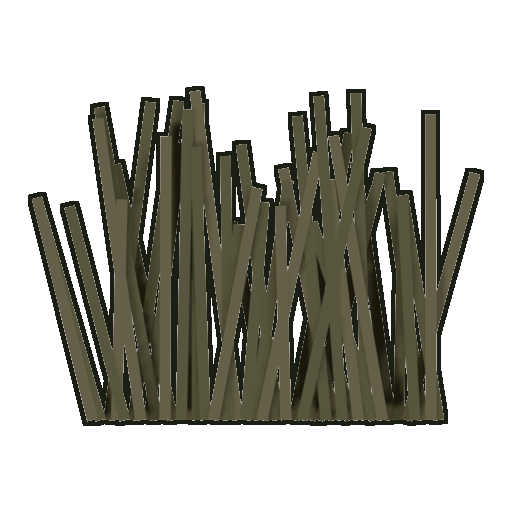
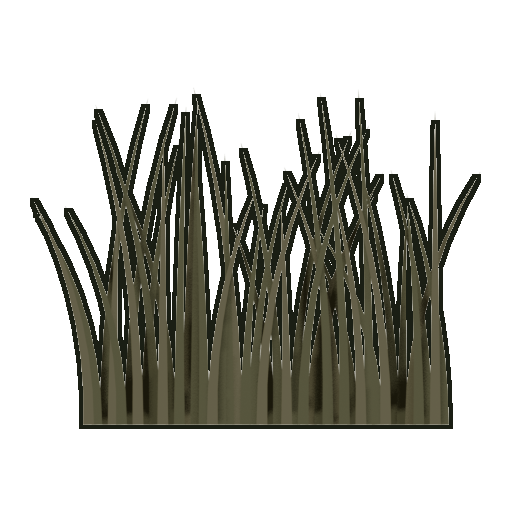
Stop the vegetation reading as sticks, and fix the one pink palm
Two halves of the same complaint: the assets look like they come from different
worlds.

SQUARE ENDS. Everything built here was assembled from `_beam` chains — rotated
boxes — and a box has square ends. A field of square-ended sticks next to donor
palms that are real meshes with organic silhouettes is exactly the mismatch, and
it is worst on vegetation, where organic form is the entire point. Grass and
tuft now use `_grassblade`: a polygon widest at the root, tapering to a point,
bent by its own weight. Tapering alone is most of the difference between grass
and sticks.

Architecture is deliberately left as boxes. A roof plane really is a plane and a
post really is a post, which is why the built shrine and market stall sit fine
beside the donor huts while a bush made of boxes never could.

THE PINK PALM. `palm_a` is the commonest prop on the palm maps and its trunk was
PINK — measured at hue 15 degrees where palm_b, palm_c and palm_d all sit at
32.3, and 80/58/50 against their 57/49/37. Every other prop in the frame agreed
about the palette and this one did not.

Correcting it took two passes, and the first is worth recording: (0.74 mul,
+0.026 green, sat_keep 0.30) overshot to hue 60 and 42/43/32 — yellow and too
dark. `sat_keep` runs BEFORE the multiply in tone(), so pulling saturation to
0.30 collapsed the red channel first and the darkening then compounded it. At
(0.92, +0.020 red, sat_keep 0.46) it lands on hue 26.1 and 56/46/36, within
three points of its siblings.
[…]

Changed region(s): [[0.0312, 0.1562, 0.9688, 0.8438]]

diff --git a/tools/render_props.py b/tools/render_props.py
@@ -184,6 +184,36 @@ def _leafpoly(mat, x0, z0, x1, z1, bow=0.0, wmax=0.09, segs=10, y=0.0, yt=0.012)
     return _poly(mat, left + list(reversed(right)), y=y, yt=yt)
 
 
+def _grassblade(mat, x0, z0, x1, z1, bow=0.0, w=0.026, segs=7, y=0.0, yt=0.016):
+    """A blade of grass: widest at the base, tapering to a point, bent by its own
+    weight.
+
+    `_beam` chains have SQUARE ENDS, and a field of square-ended sticks is what
+    made the built vegetation read as a different material from the donor palms
+    standing next to it — the palms are real meshes with organic silhouettes and
+    the grass was a bundle of rectangles. Blades taper. That single property is
+    most of the difference between "grass" and "sticks", and it costs nothing
+    because _leafpoly already builds a tapering polygon.
+    """
+    import math as _m
+    mid = _curve(x0, z0, x1, z1, bow, segs)
+    left, right = [], []
+    for k, (px, pz) in enumerate(mid):
+        t = k / float(segs)
+        ww = w * (1.0 - t) ** 0.75          # widest at the root, a point at the tip
+        if k == 0:
+            dx, dz = mid[1][0] - px, mid[1][1] - pz
+        elif k == segs:
+            dx, dz = px - mid[k - 1][0], pz - mid[k - 1][1]
+        else:
+            dx, dz = mid[k + 1][0] - mid[k - 1][0], mid[k + 1][1] - mid[k - 1][1]
+        d = _m.hypot(dx, dz) or 1e-6
+        nx, nz = -dz / d, dx / d
+        left.append((px + nx * ww, pz + nz * ww))
+        right.append((px - nx * ww, pz - nz * ww))
+    return _poly(mat, left + list(reversed(right)), y=y, yt=yt)
+
+
 def _blade(mat, x0, z0, x1, z1, bow=0.0, wmax=0.09, segs=6, y=0.0, yt=0.02):
     """A leaf with actual blade area: half-width swells to `wmax` near the middle
     and comes to a point at the tip.
@@ -459,8 +489,11 @@ def build_grass():
         x = -1.05 + 2.1 * (i / 43.0)
         h = 1.15 + _r.random() * 0.85
         lean = (_r.random() - 0.5) * 0.85
-        _beam(deep if i % 3 else pale, x, 0.0, x + lean, h,
-              t=0.034, y=(_r.random() - 0.5) * 0.34, yt=0.026)
+        # bowed AND tapered: elephant grass falls away under its own weight, and
+        # a stand of straight square-ended stems reads as a bundle of canes
+        _grassblade(deep if i % 3 else pale, x, 0.0, x + lean, h,
+                    bow=lean * 0.55, w=0.032,
+                    y=(_r.random() - 0.5) * 0.34, yt=0.020)
 
 
 # ---- small ground cover -------------------------------------------------
@@ -485,8 +518,10 @@ def build_tuft():
     for i in range(30):
         x = (_r.random() - 0.5) * 0.66
         h = 0.20 + _r.random() * 0.36
-        _beam(deep if i % 3 else pale, x, 0.0, x + (_r.random() - 0.5) * 0.34, h,
-              t=0.026, y=(_r.random() - 0.5) * 0.24, yt=0.020)
+        lean = (_r.random() - 0.5) * 0.34
+        _grassblade(deep if i % 3 else pale, x, 0.0, x + lean, h,
+                    bow=lean * 0.5, w=0.024,
+                    y=(_r.random() - 0.5) * 0.24, yt=0.015)
 
 
 def build_bushlow():

diff --git a/tools/tone_props.py b/tools/tone_props.py
@@ -46,6 +46,16 @@ FIXUP = {
     # with green running 14-17 points above red — the only vivid thing in a dusty
     # frame, and the first thing the eye went to. palm_a took the global grade
     # well; b/c/d start much greener and need their own pull.
+    # palm_a is the ONE palm with a pink trunk. Measured against its siblings it
+    # sits at hue 15 degrees where palm_b/c/d are all at 32.3, and comes out
+    # 80/58/50 against their 57/49/37 — lighter and redder, in the prop that
+    # appears most often on the palm maps. Everything else in the frame agreed
+    # about the palette and this one did not.
+    # Tuning note: a first attempt at (0.74, +0.026 green, sat 0.30) overshot to
+    # hue 60 and 42/43/32 — yellow and too dark. `sat_keep` runs BEFORE the
+    # multiply, so pulling saturation to 0.30 collapsed the red channel first
+    # and then everything got darkened on top of it.
+    'palm_a':        (0.92, (0.020, 0.004, -0.004), 0.46),
     'palm_b':        (0.60, (0.034, 0.020, 0.004), 0.30),
     'palm_c':        (0.60, (0.034, 0.020, 0.004), 0.30),
     'palm_d':        (0.60, (0.034, 0.020, 0.004), 0.30),

diff --git a/PLAN.md b/PLAN.md
@@ -474,29 +474,39 @@ There were simply not enough frames in it.
 
 ## 2. Open, ranked
 
-**Map identity — the pattern worth remembering.** Ia Drang and Cu Chi had every
-systemic art pass and still did not look like themselves, and in all four cases
-the cause was the same: something the DATA ALREADY DECLARED was never drawn.
+**The asset audit, and the rule it produced.** Laying all 31 props side by side
+tagged by origin found two separate faults, and the second was worse than the
+first.
 
-- the prop scatter was gated to `palm`/`jungle`, so the valley named for elephant
-  grass got no props at all
-- the turf pass hardcoded +30 green, so a map whose palette says dry-season gold
-  came out green anyway
-- `soil: #7a4526` sat in Cu Chi's palette with a comment explaining the tunnels
-  were dug through it, and only a >0.14 slope could paint it, on a flat map
-- `hillFar: #8c93a8` existed to describe the Chu Pong massif, and the map drew a
-  row of interchangeable triangles
+*Wrong world:* four props came from a generic fantasy pack — a European
+half-timbered house frame standing in for a Vietnamese shrine, a storybook
+wishing well, a market stall with CROSSED SWORDS on it, and a European handcart.
+Two more (`frame_a`, `frame_b`) were referenced by nothing at all. Replaced with
+built Vietnamese fittings; prop set 35 -> 29.
 
-**Before adding new art to a map, check what its palette already promises.**
+*Two visual languages:* donor models are smooth meshes, everything built here
+was assembled from boxes with SQUARE ENDS. That reads worst on vegetation, where
+organic form is the whole point — grass and tuft now use a tapering polygon
+blade (`_grassblade`) instead of beam chains. Architecture is exempt: a roof
+plane really is a plane, which is why the built shrine and stall sit fine beside
+the donor huts.
+
+*And one prop simply disagreed with the palette:* `palm_a`, the commonest prop on
+the palm maps, had a PINK trunk — hue 15 degrees against 32.3 for palm_b/c/d,
+and 80/58/50 against their 57/49/37. Now 26.1 and 56/46/36.
+
+**Rule: before adding art to a map, audit what is already there — origin,
+palette, and whether it belongs in 1965 Vietnam.**
 
 | # | Item | Why it is here |
 |---|---|---|
-| 1 | The other three maps' identity | Mekong is a delta with the paddies as a thin far strip; Khe Sanh is a besieged firebase with no wire, revetments or airstrip; Hill 937 is Hamburger Hill with no mud and no shell-torn ground. Same audit as above: read the palette and the brief first. |
-| 2 | HUD group rails | The design's BASIC INFANTRY / HEAVY WEAPONS / SPECIALISTS rails need a category field on the 13 squads; none exists. |
-| 3 | Death variety | One death clip per unit, so a squad wiped by one burst falls in unison. ~9 MB spare would cover it. |
-| 4 | Real weapon meshes | Proportions fixed; still donor stand-ins. |
-| 5 | A real prone clip | Needs mocap or hand-posed arms; three Blender attempts have failed. |
-| 6 | CSS duplicate cleanup | `#hud-controls button` is declared four times in `css/style.css` and `#hud-bottom` twice, so the cascade is the only reliable way to land a HUD change. |
+| 1 | The other three maps' identity | Mekong's paddies are a thin far strip on a map named for a delta; Khe Sanh is a besieged firebase with no wire, revetments or airstrip; Hill 937 is Hamburger Hill with no mud and no shell-torn ground. |
+| 2 | Remaining faceted vegetation | `bamboo_a`, `fern_a`, `vine_a`, `bush_low` still read harder than the donor meshes. `_grassblade` and `_leafpoly` are the tools; this is more of the same work. |
+| 3 | HUD group rails | Needs a category field on the 13 squads; none exists. |
+| 4 | Death variety | One death clip per unit, so a squad wiped by one burst falls in unison. |
+| 5 | Real weapon meshes | Proportions fixed; still donor stand-ins. |
+| 6 | A real prone clip | Needs mocap or hand-posed arms; three Blender attempts have failed. |
+| 7 | CSS duplicate cleanup | `#hud-controls button` is declared four times, `#hud-bottom` twice. |
 
 
 **Checked and NOT a gap: audio.** It was about to go on this list as "an M60 and
